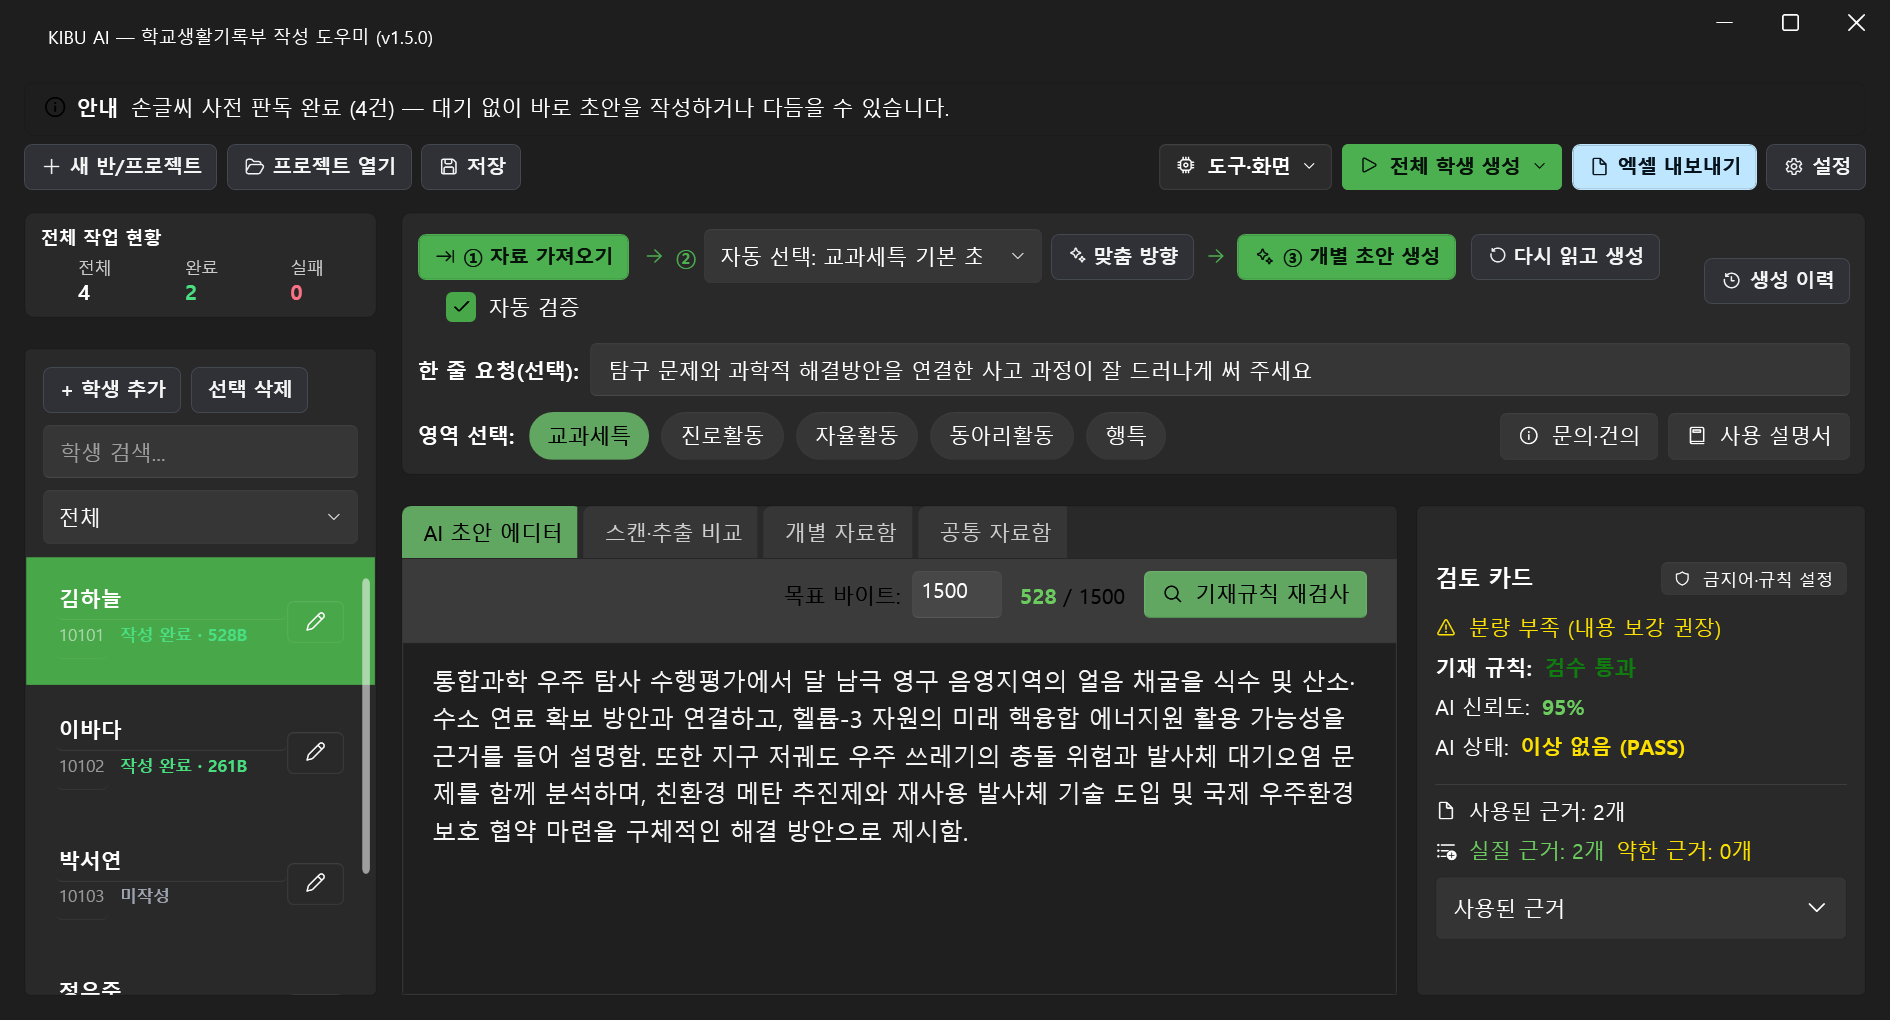
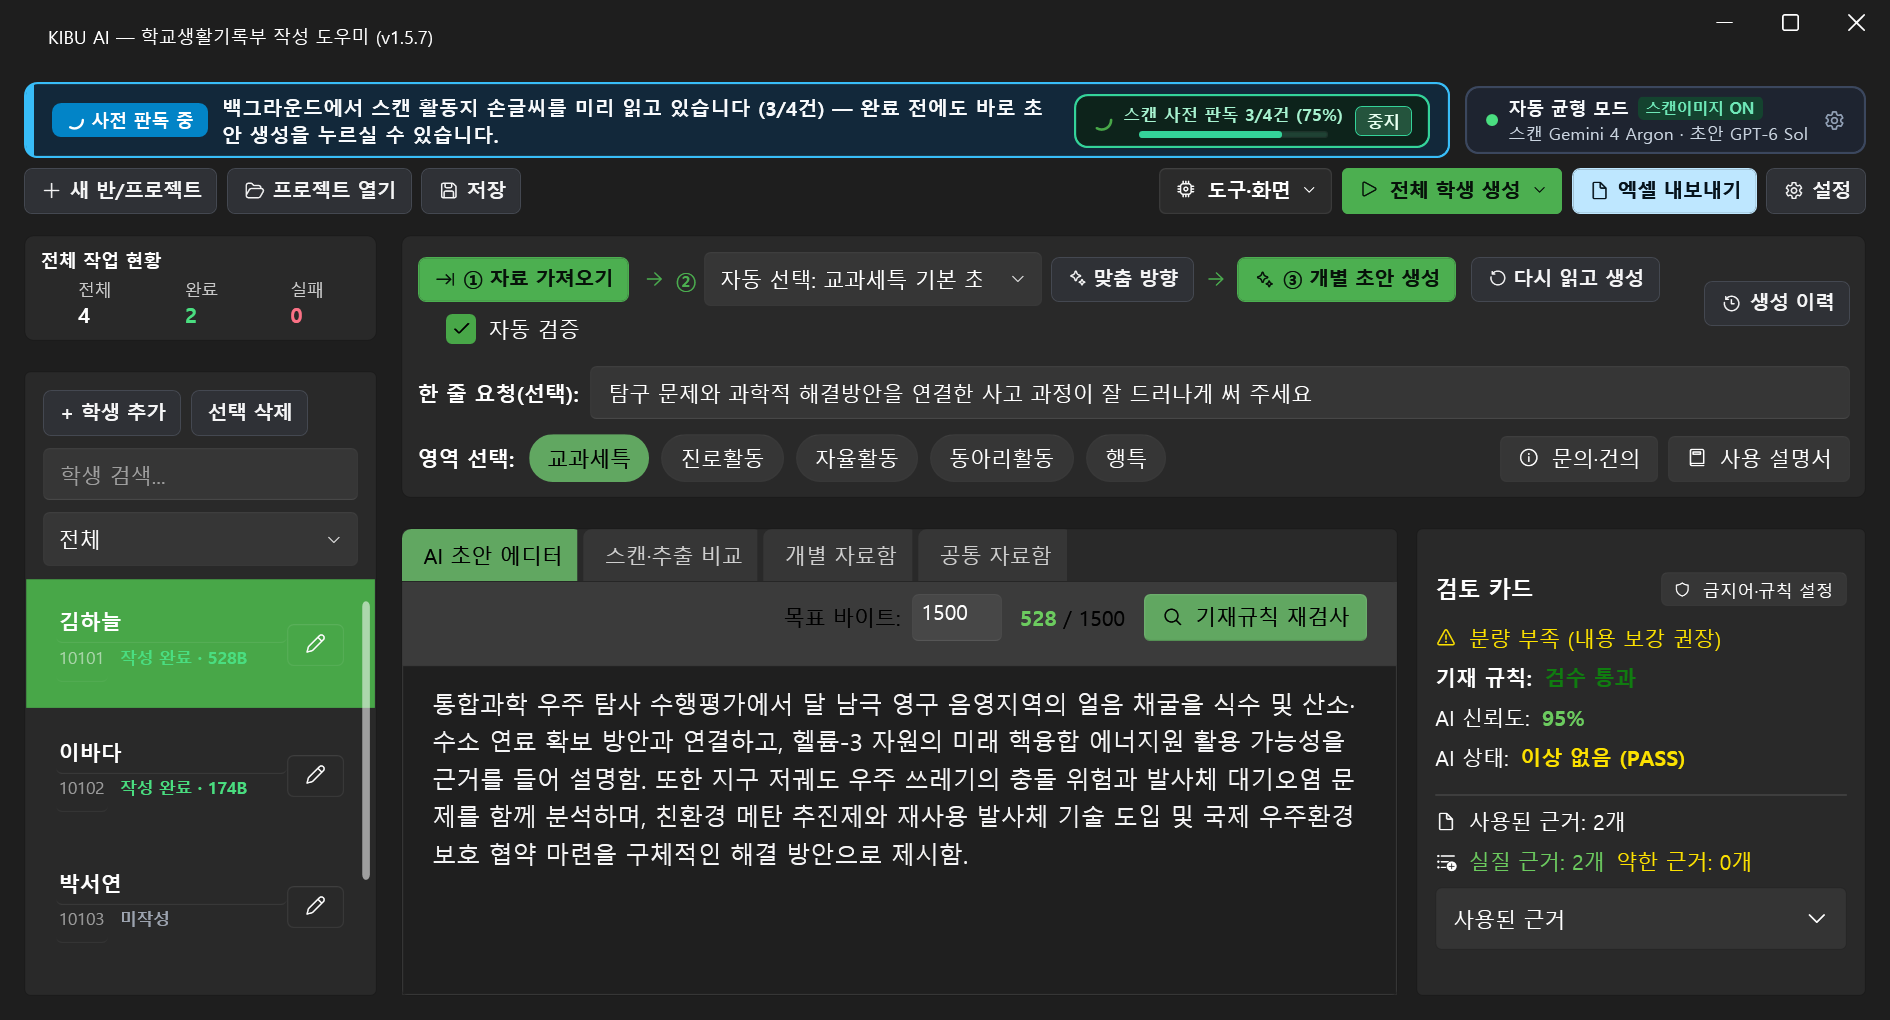
docs: v1.5.7 상단 고시인성 진행 배너 및 AI 모델 세팅 상태 표시 반영

diff --git a/index.html b/index.html
@@ -11,7 +11,7 @@
     <link rel="icon" type="image/x-icon" href="favicon.ico">
     <meta property="og:title" content="KIBU AI | 학교생활기록부 작성 도우미">
     <meta property="og:description" content="손글씨 스캔 활동지부터 한글·PPT·설문까지 학생별로 깔끔하게 정리하고, 선생님의 관점에 맞는 생기부 초안을 함께 다듬는 AI 도우미입니다.">
-    <meta property="og:image" content="https://kibuai.github.io/Kibu-site/img/01_메인화면_전체.png?v=150">
+    <meta property="og:image" content="https://kibuai.github.io/Kibu-site/img/01_메인화면_전체.png?v=157">
     <meta property="og:url" content="https://kibuai.github.io/Kibu-site/">
 
     <link rel="preconnect" href="https://cdn.jsdelivr.net" crossorigin>
@@ -71,7 +71,7 @@
             <div class="container mt-5" style="max-width: 1040px;" data-aos="fade-up" data-aos-delay="150">
                 <div class="mockup-frame">
                     <div class="mockup-header"><div class="dot"></div><div class="dot"></div><div class="dot"></div></div>
-                    <img src="img/01_메인화면_전체.png?v=150" alt="KIBU AI 메인화면" data-ph onerror="this.onerror=null;this.src='img/placeholder.svg'">
+                    <img src="img/01_메인화면_전체.png?v=157" alt="KIBU AI 메인화면" data-ph onerror="this.onerror=null;this.src='img/placeholder.svg'">
                 </div>
             </div>
         </div>
@@ -299,7 +299,7 @@
                     <div class="download-card p-5 text-center">
                         <div class="d-inline-flex align-items-center gap-2 bg-dark bg-opacity-25 px-3 py-1 rounded-pill mb-4">
                             <span class="badge bg-success">최신 버전</span>
-                            <span class="small version-pill">26.11.13 · v1.5.6</span>
+                            <span class="small version-pill">26.11.13 · v1.5.7</span>
                         </div>
                         <div class="d-grid gap-3 d-sm-flex justify-content-center mb-4">
                             <a href="https://github.com/KibuAI/Kibu-site/releases/latest/download/KibuBeta-win-Setup.exe" class="btn btn-primary-c btn-lg px-4 text-nowrap"><i class="bi bi-download me-2"></i> Windows용 설치 파일 다운로드</a>

diff --git a/features.html b/features.html
@@ -164,7 +164,7 @@
                 <div class="col-lg-7 mt-5 mt-lg-0" data-aos="fade-right">
                     <div class="mockup-frame position-relative">
                         <div class="mockup-header"><div class="dot"></div><div class="dot"></div><div class="dot"></div></div>
-                        <img src="img/10_일괄생성_버튼.png?v=150" alt="일괄 생성 및 상단 도구 화면" data-ph onerror="this.onerror=null;this.src='img/placeholder.svg'">
+                        <img src="img/10_일괄생성_버튼.png?v=157" alt="일괄 생성 및 상단 도구 화면" data-ph onerror="this.onerror=null;this.src='img/placeholder.svg'">
                     </div>
                     <div class="mockup-frame mt-4 w-75 ms-auto" style="margin-top: -55px !important; position: relative; z-index: 2;">
                         <img src="img/11_일괄생성_진행상태.png" alt="일괄 생성 진행 상태" data-ph onerror="this.onerror=null;this.src='img/placeholder.svg'">
